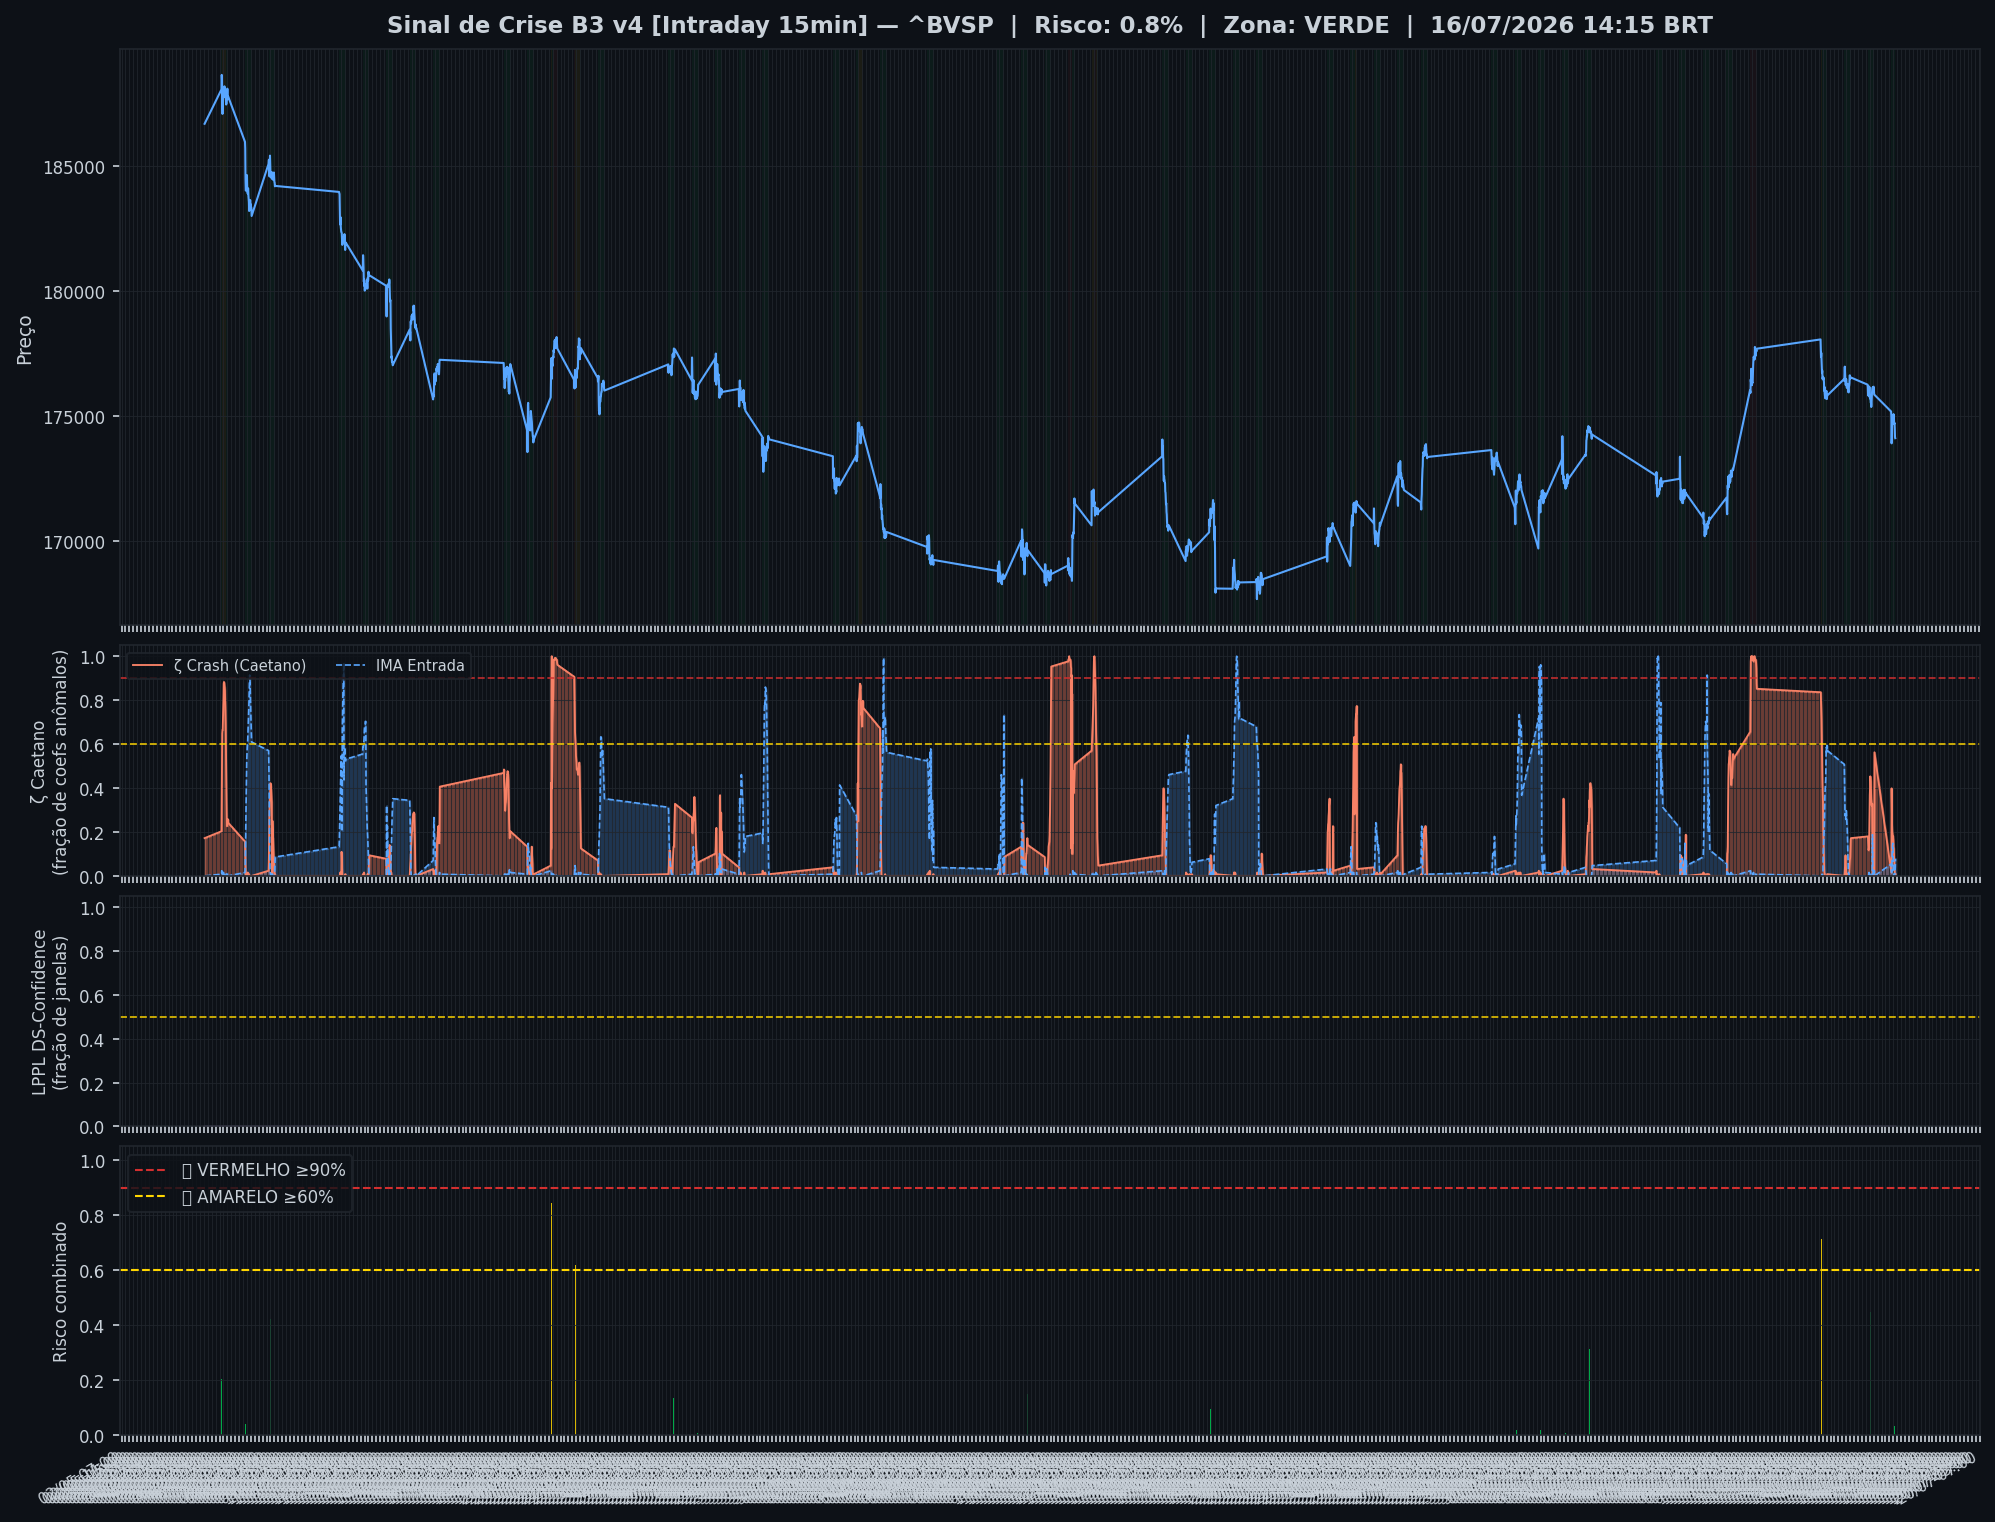
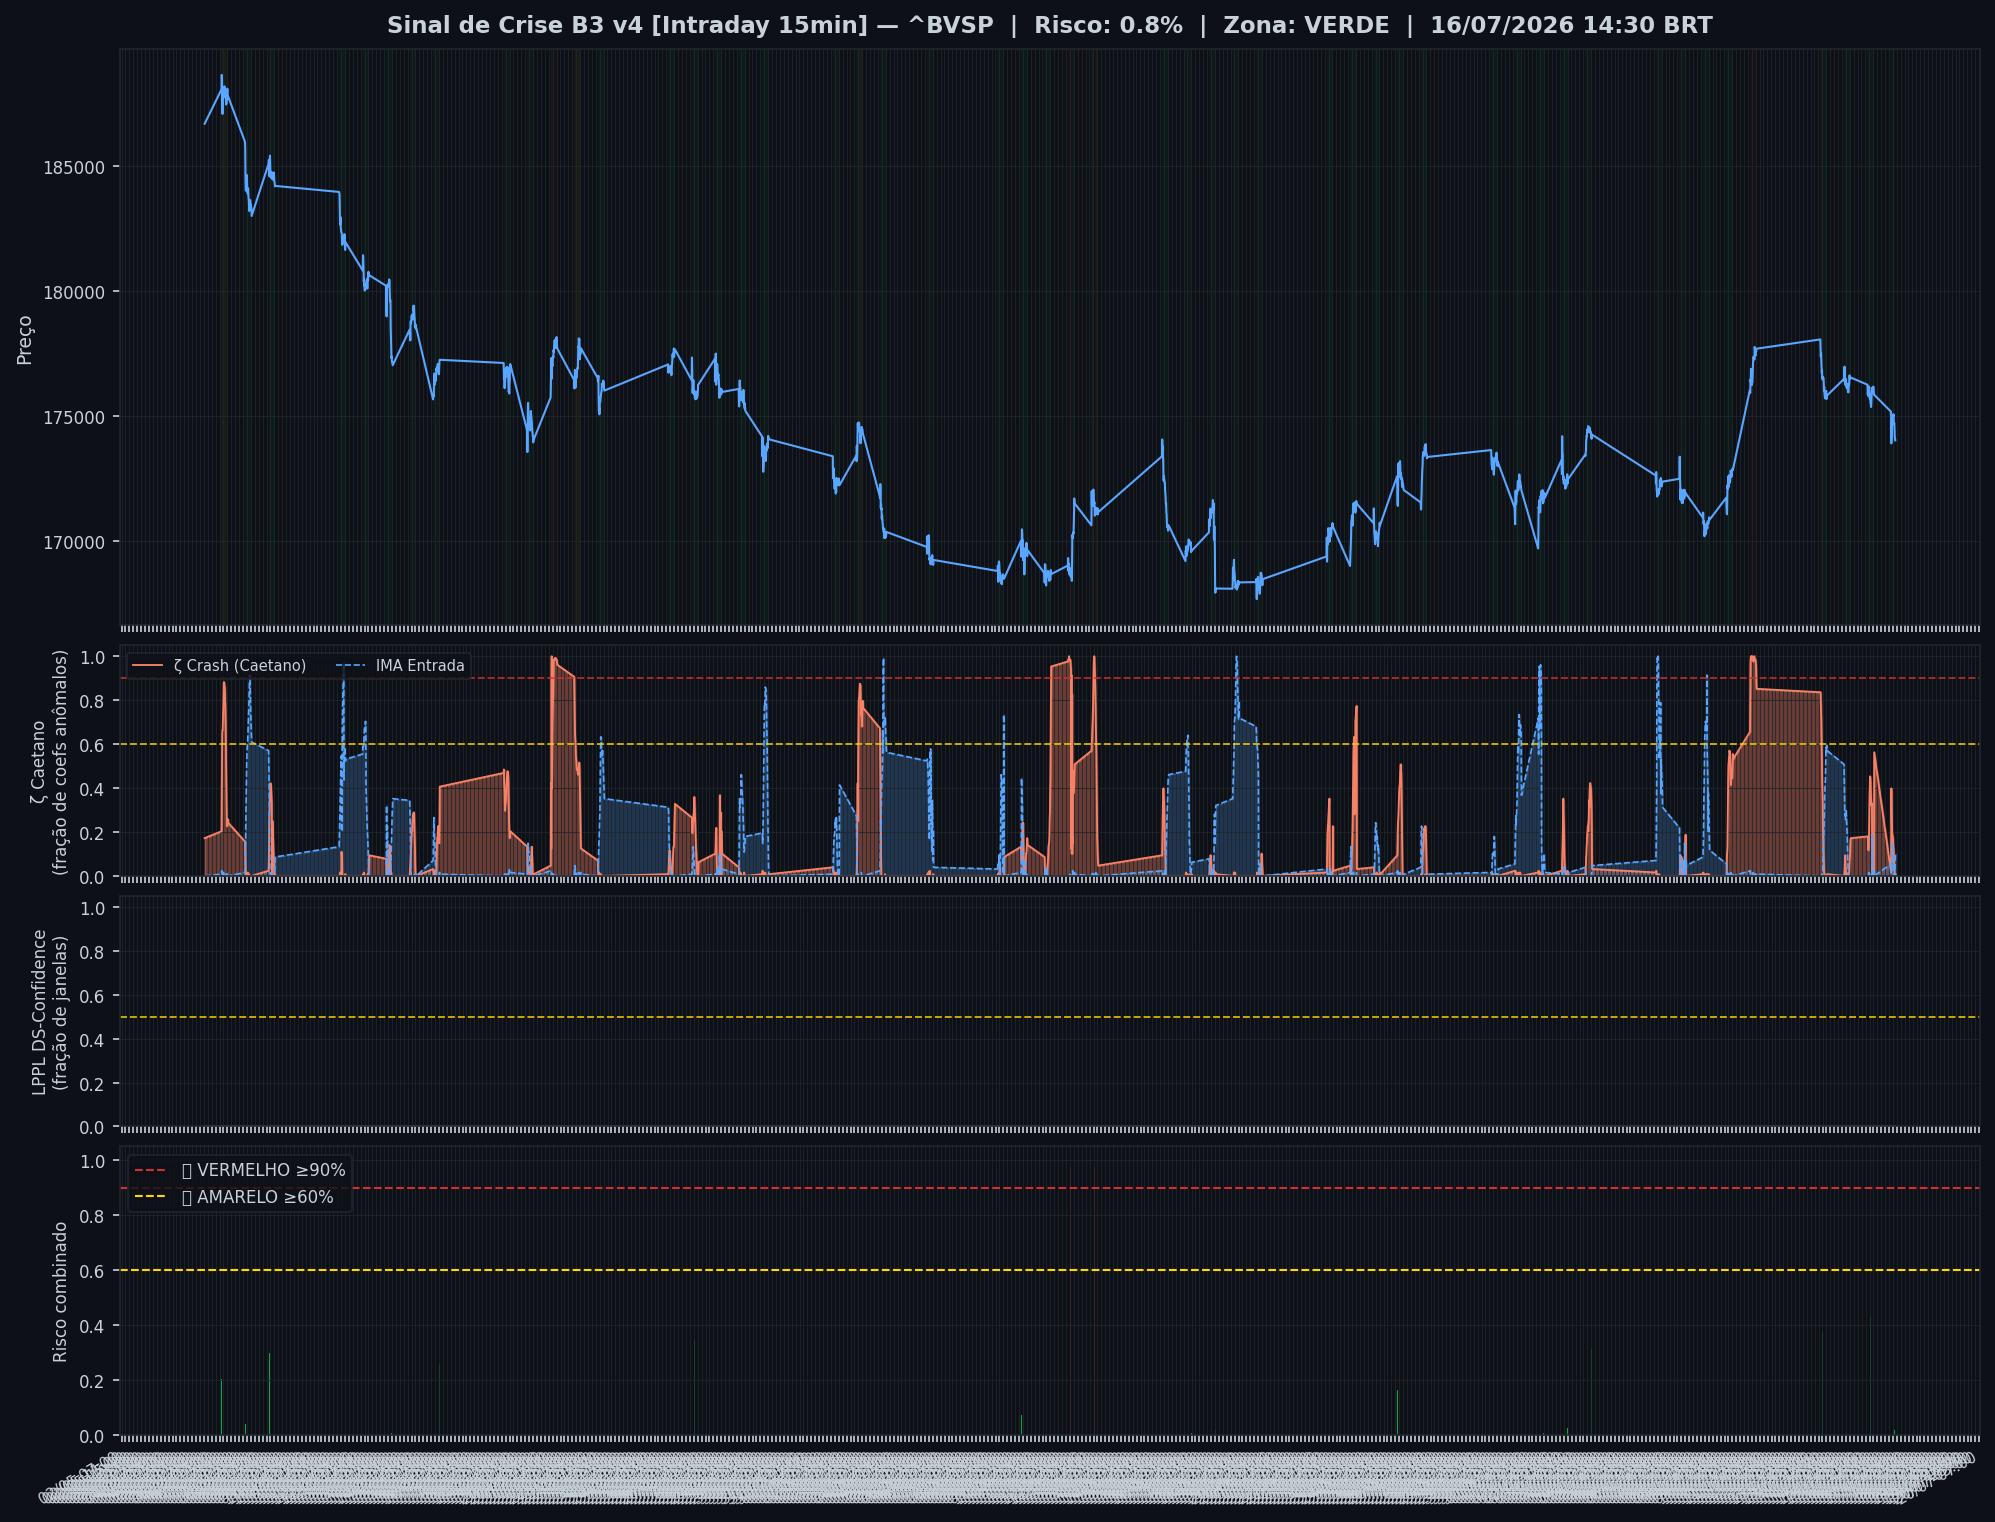
🤖 Auto: Sinal 16/07/2026 15:15

diff --git a/content/intraday/2026-07-16.md b/content/intraday/2026-07-16.md
@@ -1,10 +1,10 @@
 ---
-title: "🟢 Intraday 16/07/2026 14:15 BRT — VERDE"
+title: "🟢 Intraday 16/07/2026 14:30 BRT — VERDE"
 date: 2026-07-16
 tags: [intraday]
 ---
 
-> [!success] 🟢 **VERDE** — Risco 1% · ▲ +1 p.p. vs leitura anterior
+> [!success] 🟢 **VERDE** — Risco 1% · ＝ +0 p.p. vs leitura anterior
 > `░░░░░░░░░░░░░░░░░░░░`
 > Mercado sem sinais relevantes de estresse.
 
@@ -12,9 +12,9 @@ tags: [intraday]
 | Indicador | Valor |
 |---|---|
 | 🔴 ζ Crash — severidade da queda em curso | **1%** |
-| 🔵 ζ Entrada — estrutura de fundo | 8% |
+| 🔵 ζ Entrada — estrutura de fundo | 10% |
 | 🫧 LPPL DS-Confidence | 0% |
-| 📊 Ibovespa | 174.100 pts |
+| 📊 Ibovespa | 174.011 pts |
 
 ![Gráfico do sinal](../graficos/sinal_intraday.png)
 
@@ -22,6 +22,7 @@ tags: [intraday]
 
 | Data | Zona | Risco | IMA Crash | Entrada | LPPL |
 |---|---|---|---|---|---|
+| 2026-07-16 14:30 | 🟢 VERDE | **1%** | 1% | 10% | 0% |
 | 2026-07-16 14:15 | 🟢 VERDE | **1%** | 1% | 8% | 0% |
 | 2026-07-16 14:00 | 🟢 VERDE | **0%** | 0% | 4% | 0% |
 | 2026-07-16 13:45 | 🟢 VERDE | **0%** | 0% | 2% | 0% |
@@ -51,7 +52,6 @@ tags: [intraday]
 | 2026-07-15 14:45 | 🟢 VERDE | **0%** | 0% | 19% | 0% |
 | 2026-07-15 14:30 | 🟢 VERDE | **33%** | 33% | 2% | 0% |
 | 2026-07-15 14:15 | 🟢 VERDE | **33%** | 33% | 0% | 0% |
-| 2026-07-15 14:00 | 🟢 VERDE | **32%** | 32% | 0% | 0% |
 
 ## Monitor Multi-Ativo
 
@@ -59,37 +59,37 @@ tags: [intraday]
 
 | Zona | Ativo | Setor | IMA Crash | IMA Entrada |
 |---|---|---|---|---|
-| 🟢 | **VALE** | Mineração | 7.8% | 29.7% |
-| 🟢 | **ITAUUNIBANCO** | Financeiro | 7.8% | 29.7% |
-| 🟢 | **PETROBRAS** | Petróleo | 7.8% | 29.7% |
-| 🟢 | **BRADESCO** | Financeiro | 7.8% | 29.7% |
-| 🟢 | **SABESP** | Saneamento | 7.8% | 29.7% |
-| 🟢 | **ITAUSA** | Financeiro | 7.8% | 29.7% |
-| 🟢 | **B3** | Financeiro | 7.8% | 29.7% |
-| 🟢 | **BTGP BANCO** | Financeiro | 7.8% | 29.7% |
-| 🟢 | **AMBEV S/A** | Consumo | 7.8% | 29.7% |
-| 🟢 | **WEG** | Industrial | 7.8% | 29.7% |
-| 🟢 | **EMBRAER** | Outros | 7.8% | 29.7% |
-| 🟢 | **BRASIL** | Financeiro | 7.8% | 29.7% |
-| 🟢 | **ENEVA** | Energia | 7.8% | 29.7% |
-| 🟢 | **EQUATORIAL** | Energia | 7.8% | 29.7% |
-| 🟢 | **COPEL** | Energia | 7.8% | 29.7% |
-| 🟢 | **PRIO** | Petróleo | 7.8% | 29.7% |
-| 🟢 | **VIBRA** | Energia | 7.8% | 29.7% |
-| 🟢 | **LOCALIZA** | Aluguel | 7.8% | 29.7% |
-| 🟢 | **REDE D OR** | Saúde | 7.8% | 29.7% |
-| 🟢 | **ULTRAPAR** | Outros | 7.8% | 29.7% |
-| 🟢 | **GERDAU** | Siderurgia | 7.8% | 29.7% |
-| 🟢 | **SUZANO S.A.** | Papel/Celulose | 7.8% | 29.7% |
-| 🟢 | **BBSEGURIDADE** | Financeiro | 7.8% | 29.7% |
-| 🟢 | **TELEF BRASIL** | Outros | 7.8% | 29.7% |
-| 🟢 | **USD/BRL** | Câmbio | 6.2% | 29.7% |
-| 🟢 | **AXIA ENERGIA** | Energia | 4.7% | 30.5% |
-| 🟢 | **PETROBRAS** | Petróleo | 4.7% | 30.5% |
+| 🟢 | **VALE** | Mineração | 6.2% | 29.7% |
+| 🟢 | **ITAUUNIBANCO** | Financeiro | 6.2% | 29.7% |
+| 🟢 | **PETROBRAS** | Petróleo | 6.2% | 29.7% |
+| 🟢 | **AXIA ENERGIA** | Energia | 6.2% | 29.7% |
+| 🟢 | **PETROBRAS** | Petróleo | 6.2% | 29.7% |
+| 🟢 | **BRADESCO** | Financeiro | 6.2% | 29.7% |
+| 🟢 | **SABESP** | Saneamento | 6.2% | 29.7% |
+| 🟢 | **ITAUSA** | Financeiro | 6.2% | 29.7% |
+| 🟢 | **B3** | Financeiro | 6.2% | 29.7% |
+| 🟢 | **BTGP BANCO** | Financeiro | 6.2% | 29.7% |
+| 🟢 | **AMBEV S/A** | Consumo | 6.2% | 29.7% |
+| 🟢 | **WEG** | Industrial | 6.2% | 29.7% |
+| 🟢 | **EMBRAER** | Outros | 6.2% | 29.7% |
+| 🟢 | **BRASIL** | Financeiro | 6.2% | 29.7% |
+| 🟢 | **ENEVA** | Energia | 6.2% | 29.7% |
+| 🟢 | **EQUATORIAL** | Energia | 6.2% | 29.7% |
+| 🟢 | **COPEL** | Energia | 6.2% | 29.7% |
+| 🟢 | **PRIO** | Petróleo | 6.2% | 29.7% |
+| 🟢 | **VIBRA** | Energia | 6.2% | 29.7% |
+| 🟢 | **LOCALIZA** | Aluguel | 6.2% | 29.7% |
+| 🟢 | **REDE D OR** | Saúde | 6.2% | 29.7% |
+| 🟢 | **ULTRAPAR** | Outros | 6.2% | 29.7% |
+| 🟢 | **GERDAU** | Siderurgia | 6.2% | 29.7% |
+| 🟢 | **SUZANO S.A.** | Papel/Celulose | 6.2% | 29.7% |
+| 🟢 | **BBSEGURIDADE** | Financeiro | 6.2% | 29.7% |
+| 🟢 | **TELEF BRASIL** | Outros | 6.2% | 29.7% |
+| 🟢 | **USD/BRL** | Câmbio | 3.1% | 32.0% |
 
 ![Monitor multi-ativo](../graficos/multi_intraday.png)
 
-*Página atualizada em 16/07/2026 15:00 BRT (leitura da barra de 2026-07-16 14:15 BRT).*
+*Página atualizada em 16/07/2026 15:15 BRT (leitura da barra de 2026-07-16 14:30 BRT).*
 
 > [!info]- Como interpretar (clique para expandir)
 > - **ζ Crash**: fração dos coeficientes wavelet acima do corte (Caetano & Yoneyama 2009). Escala absoluta: ζ=0,90 = 90% dos coeficientes anômalos — historicamente, quedas com ζ≥0,90 foram mais fundas e mais longas. **Mede a severidade do movimento em curso, não prevê o início da queda.**

diff --git a/content/index.md b/content/index.md
@@ -8,9 +8,9 @@ tags: [home]
 
 Monitoramento diário e intraday do Ibovespa — **IMA Wavelet** (Prof. Marco Antonio Leonel Caetano, ITA/INSPER) + **LPPL DS-Confidence** (Prof. Didier Sornette, ETH-Zurich).
 
-*Última atualização: 16/07/2026 15:00 BRT · ^BVSP · Intraday 15min · v4*
+*Última atualização: 16/07/2026 15:15 BRT · ^BVSP · Intraday 15min · v4*
 
-> [!success] 🟢 **VERDE** — Risco 1% · ▲ +1 p.p. vs leitura anterior
+> [!success] 🟢 **VERDE** — Risco 1% · ＝ +0 p.p. vs leitura anterior
 > `░░░░░░░░░░░░░░░░░░░░`
 > Mercado sem sinais relevantes de estresse.
 
@@ -18,9 +18,9 @@ Monitoramento diário e intraday do Ibovespa — **IMA Wavelet** (Prof. Marco An
 | Indicador | Valor |
 |---|---|
 | 🔴 ζ Crash — severidade da queda em curso | **1%** |
-| 🔵 ζ Entrada — estrutura de fundo | 8% |
+| 🔵 ζ Entrada — estrutura de fundo | 10% |
 | 🫧 LPPL DS-Confidence | 0% |
-| 📊 Ibovespa | 174.100 pts |
+| 📊 Ibovespa | 174.011 pts |
 
 **Multi-ativo:** 0% em tensão (0🔴 0🟡 de 27 ativos)
 

diff --git a/content/historico.md b/content/historico.md
@@ -7,6 +7,7 @@ tags: [historico]
 
 | Data | Modo | Zona | Risco | IMA | LPPL |
 |---|---|---|---|---|---|
+| 2026-07-16 14:30 | intraday | 🟢 VERDE | 1% | 1% | 0% |
 | 2026-07-16 14:15 | intraday | 🟢 VERDE | 1% | 1% | 0% |
 | 2026-07-16 14:00 | intraday | 🟢 VERDE | 0% | 0% | 0% |
 | 2026-07-16 13:45 | intraday | 🟢 VERDE | 0% | 0% | 0% |
